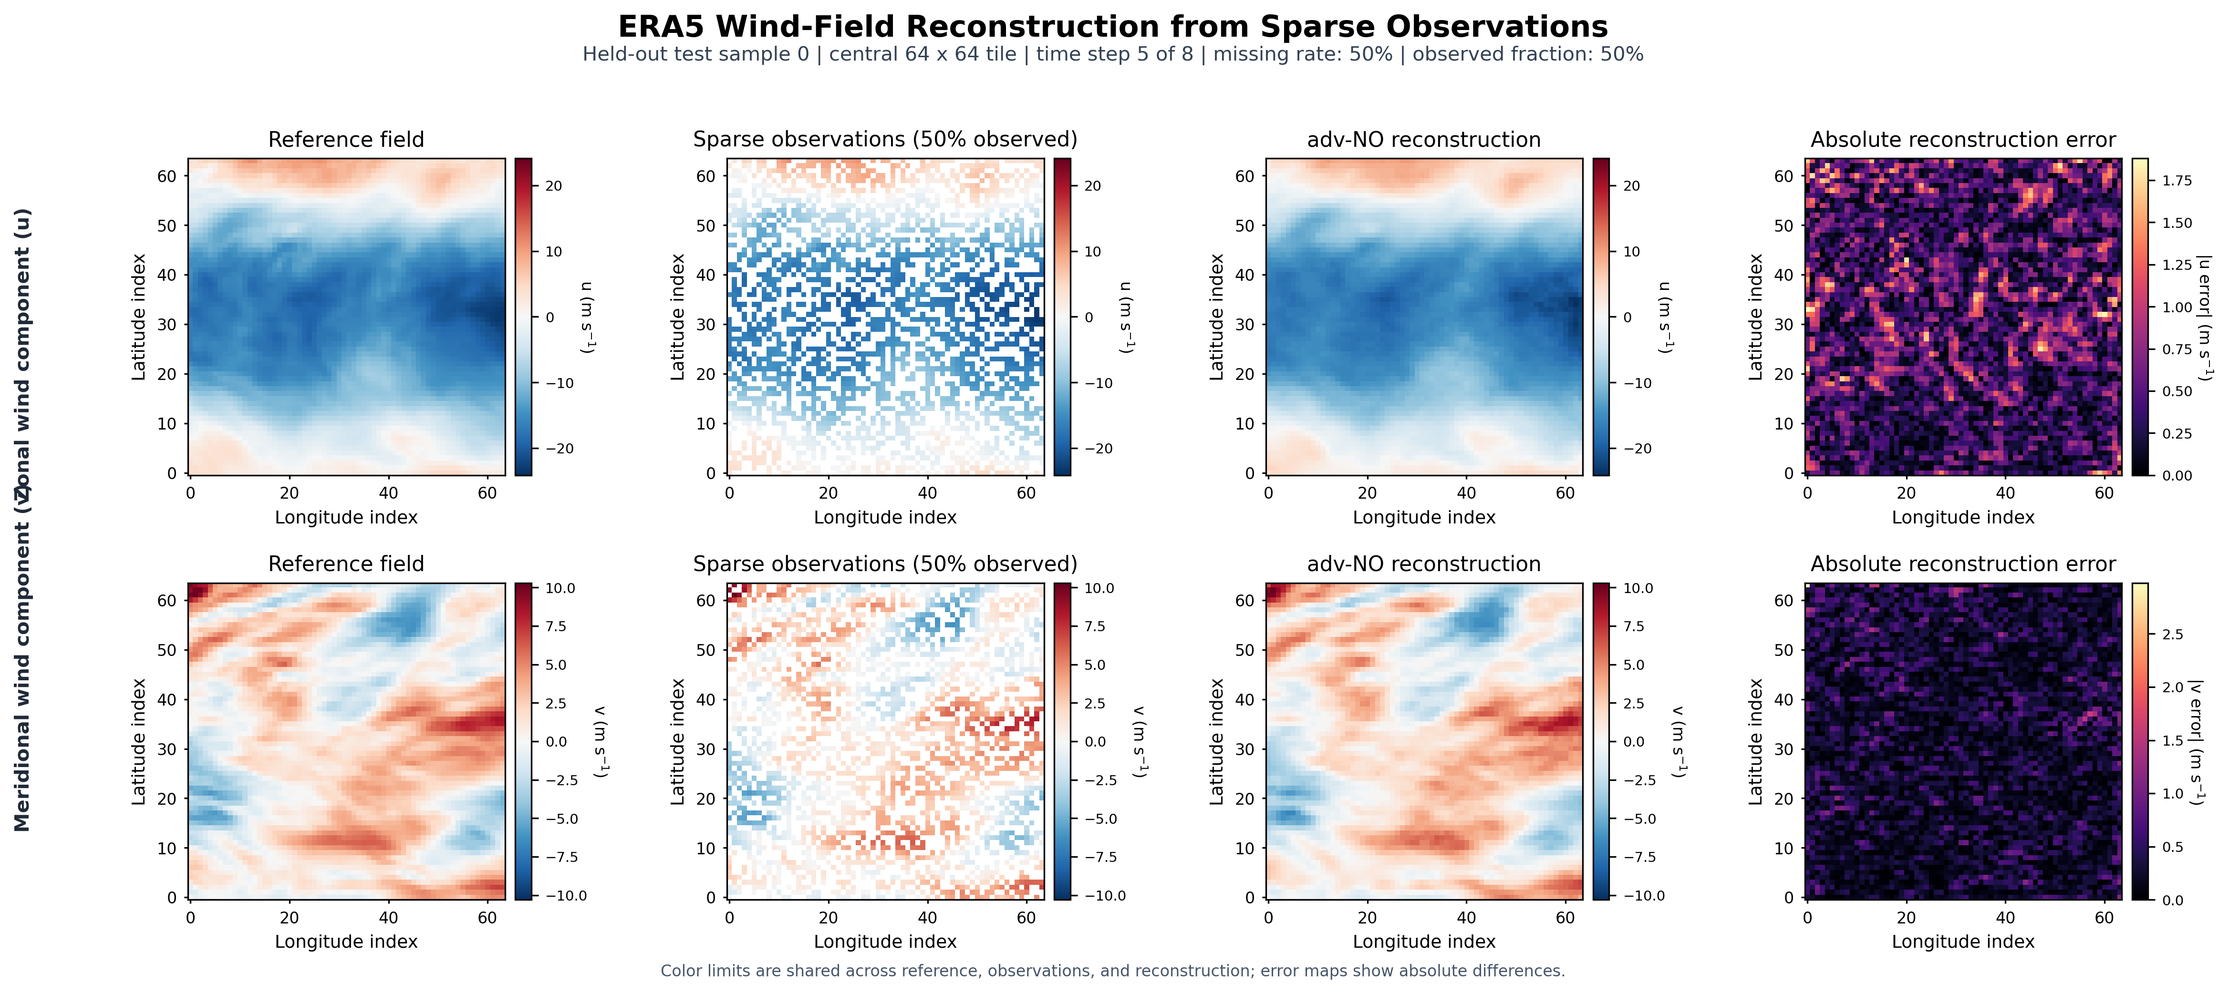
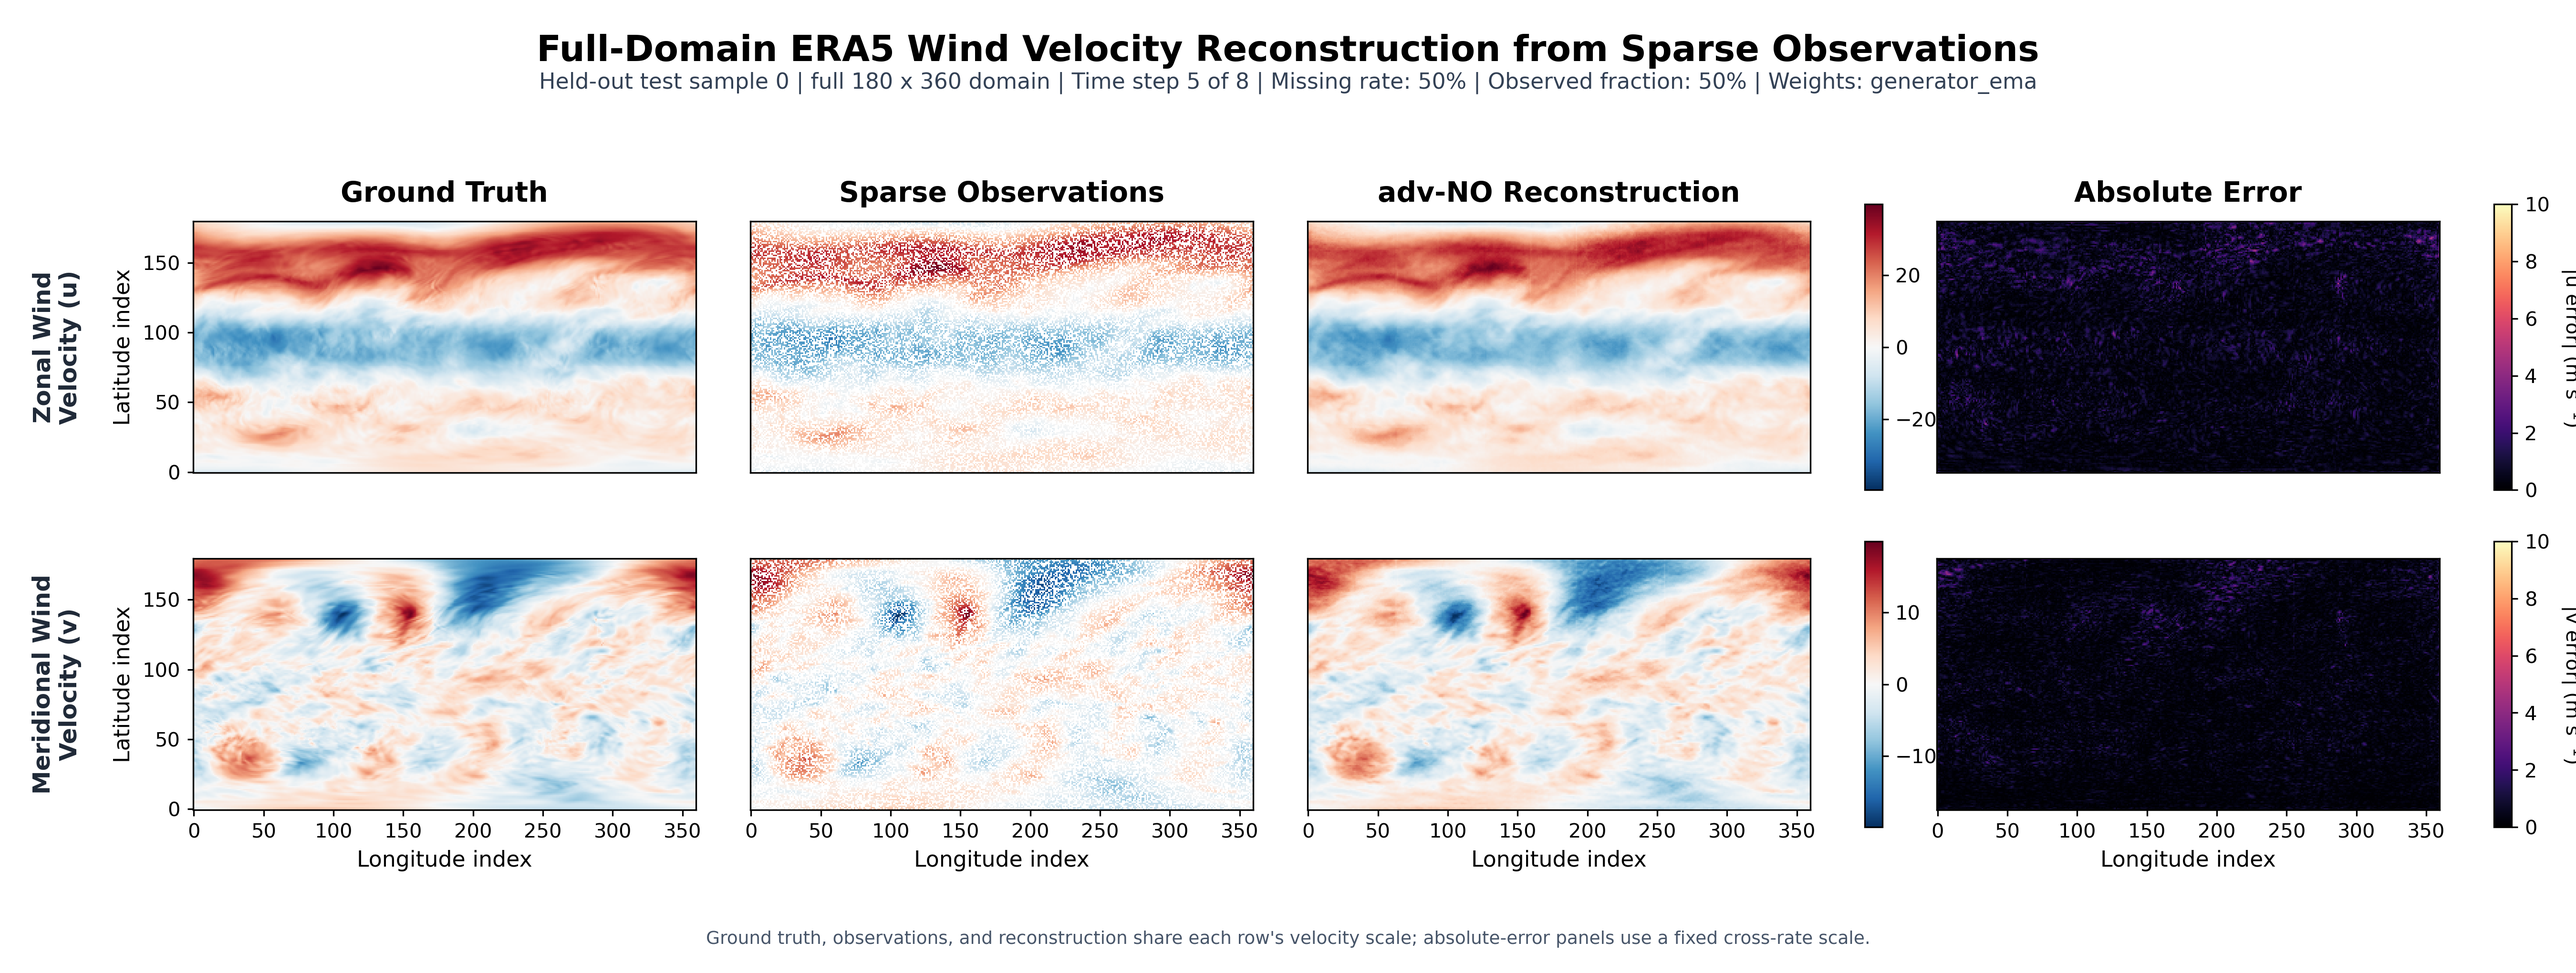
feat: publish full-domain sparse reconstruction figures

diff --git a/tests/test_sparse_visualization_layout.py b/tests/test_sparse_visualization_layout.py
@@ -77,12 +77,78 @@ def test_full_domain_prediction_uses_tiled_predict_without_cropping(monkeypatch)
     assert observed.shape == (100, 110, 30)
 
 
+def test_predict_sample_reports_selected_generator_source(monkeypatch, tmp_path):
+    module = load_plot_module()
+
+    class FakeModel:
+        def to(self, device):
+            return self
+
+        def load_state_dict(self, state):
+            self.state = state
+
+        def eval(self):
+            return self
+
+    checkpoint = {
+        "par": {
+            "nx": 64,
+            "nz": 16,
+            "inp_shift": torch.zeros((1, 4, 1, 1, 1)),
+        }
+    }
+    monkeypatch.setattr(module.torch, "load", lambda *args, **kwargs: checkpoint)
+    monkeypatch.setattr(module, "Unet3D", lambda **kwargs: FakeModel())
+    monkeypatch.setattr(
+        module,
+        "select_generator_state",
+        lambda checkpoint, prefer_ema: ({"weight": torch.tensor(1.0)}, "generator_ema"),
+    )
+    monkeypatch.setattr(
+        module,
+        "read_full_sample",
+        lambda *args: (
+            np.zeros((2, 100, 110, 30), dtype=np.float32),
+            np.ones((1, 100, 110, 30), dtype=np.float32),
+        ),
+    )
+    monkeypatch.setattr(
+        module,
+        "predict_full_domain",
+        lambda *args, **kwargs: (
+            np.zeros((2, 100, 110, 30), dtype=np.float32),
+            np.ones((100, 110, 30), dtype=bool),
+        ),
+    )
+
+    *_, source = module.predict_sample(
+        data_path=tmp_path / "input.h5",
+        checkpoint_path=tmp_path / "checkpoint.pt",
+        config_path=None,
+        sample=0,
+        slice_index=14,
+        mask_ratio=0.5,
+        seed=25,
+        device_name="cpu",
+        patch=64,
+        depth=16,
+    )
+
+    assert source == "generator_ema"
+
+
 def test_fixed_error_color_limit_is_shared_across_components():
     module = load_plot_module()
     limits = module.resolve_error_limits(np.asarray([0.08, 0.06]), 0.12)
     np.testing.assert_array_equal(limits, np.asarray([0.12, 0.12]))
     with pytest.raises(ValueError, match="error-vmax"):
         module.resolve_error_limits(np.asarray([0.08, 0.06]), 0.0)
+
+
+def test_error_scale_caption_matches_fixed_or_dynamic_policy():
+    module = load_plot_module()
+    assert "fixed cross-rate scale" in module.error_scale_caption(0.12)
+    assert "per-figure scale" in module.error_scale_caption(None)
 
 
 def test_publication_column_titles_and_axis_visibility():
@@ -96,6 +162,16 @@ def test_publication_column_titles_and_axis_visibility():
     for row in range(2):
         for col in range(4):
             assert module.axis_visibility(row, col) == (row == 1, col == 0)
+
+
+def test_long_velocity_row_labels_wrap_without_abbreviation():
+    module = load_plot_module()
+    assert module.format_row_label("Zonal Wind Velocity (u)") == (
+        "Zonal Wind\nVelocity (u)"
+    )
+    assert module.format_row_label("Eastward Velocity (u)") == (
+        "Eastward Velocity (u)"
+    )
 
 
 def test_hide_redundant_axes_keeps_only_left_and_bottom_labels():
@@ -136,3 +212,17 @@ def test_parser_exposes_publication_layout_controls():
     assert args.slice_label == "Sigma layer"
     assert args.error_vmax == 0.12
     assert (args.patch, args.depth, args.stride, args.tile_batch) == (64, 16, 32, 8)
+
+
+def test_parser_uses_publication_era5_row_labels():
+    module = load_plot_module()
+    args = module.build_arg_parser().parse_args(
+        [
+            "--data", "input.h5",
+            "--checkpoint", "checkpoint.pt",
+            "--config", "config.json",
+            "--output", "output.png",
+        ]
+    )
+    assert args.u_label == "Zonal Wind Velocity (u)"
+    assert args.v_label == "Meridional Wind Velocity (v)"

diff --git a/3_flow_reconstruction/no/adv_training/plot_sparse_visualization.py b/3_flow_reconstruction/no/adv_training/plot_sparse_visualization.py
@@ -53,6 +53,13 @@ def axis_labels(x_label: str, y_label: str) -> tuple[str, str]:
     return x_label, y_label
 
 
+def format_row_label(label: str) -> str:
+    """Wrap long wind-component labels without abbreviating their meaning."""
+    if len(label) > 22 and " Wind Velocity " in label:
+        return label.replace(" Wind Velocity ", " Wind\nVelocity ", 1)
+    return label
+
+
 def axis_visibility(row: int, col: int, row_count: int = 2) -> tuple[bool, bool]:
     """Return whether an axis should display x and y coordinates."""
     return row == row_count - 1, col == 0
@@ -93,6 +100,13 @@ def resolve_error_limits(error_limits: np.ndarray, error_vmax: float | None) -> 
             raise ValueError("error-vmax must be positive")
         value = float(error_vmax)
     return np.full(np.asarray(error_limits).shape, value, dtype=np.float64)
+
+
+def error_scale_caption(error_vmax: float | None) -> str:
+    """Describe whether absolute-error limits support cross-rate comparison."""
+    if error_vmax is None:
+        return "absolute-error panels use a per-figure scale."
+    return "absolute-error panels use a fixed cross-rate scale."
 
 
 def ground_truth_field_limits(truth: np.ndarray) -> np.ndarray:
@@ -194,7 +208,9 @@ def predict_sample(
         dim_mults=(1, 2, 4, 8),
         channels=4,
     ).to(device)
-    generator_state, _ = select_generator_state(checkpoint, prefer_ema=not raw_generator)
+    generator_state, generator_source = select_generator_state(
+        checkpoint, prefer_ema=not raw_generator
+    )
     model.load_state_dict(generator_state)
     model.eval()
 
@@ -356,7 +372,7 @@ def render(args):
         figure.text(
             0.022,
             (bounds.y0 + bounds.y1) / 2,
-            row_label,
+            format_row_label(row_label),
             rotation=90,
             ha="center",
             va="center",
@@ -388,7 +404,7 @@ def render(args):
         0.5,
         0.035,
         "Ground truth, observations, and reconstruction share each row's velocity scale; "
-        "absolute-error panels use a fixed cross-rate scale.",
+        f"{error_scale_caption(args.error_vmax)}",
         ha="center",
         va="center",
         fontsize=9,
@@ -431,8 +447,8 @@ def build_arg_parser():
         "--title",
         default="ERA5 Horizontal Wind-Field Reconstruction from Sparse Observations",
     )
-    parser.add_argument("--u-label", default="Zonal wind component (u)")
-    parser.add_argument("--v-label", default="Meridional wind component (v)")
+    parser.add_argument("--u-label", default="Zonal Wind Velocity (u)")
+    parser.add_argument("--v-label", default="Meridional Wind Velocity (v)")
     return parser
 
 

diff --git a/docs/superpowers/plans/2026-09-11-full-domain-sparse-visualization.md b/docs/superpowers/plans/2026-09-11-full-domain-sparse-visualization.md
@@ -108,17 +108,17 @@ Expected: all tests pass.
 - Modify: `docs/figures/pre_90pct_visualization.png`
 - Modify: `docs/figures/pre_99pct_visualization.png`
 
-- [ ] **Step 1: Run GPU rendering for all PRE rates**
+- [x] **Step 1: Run GPU rendering for all PRE rates**
 
 Use the final `pre_ragan_pretrained_0to100_ema_bs64` EMA checkpoint, sample 0,
 sigma layer 15 of 30, and rates `0.01 0.10 0.30 0.50 0.70 0.90 0.99`.
 
-- [ ] **Step 2: Verify output dimensions and visible domain**
+- [x] **Step 2: Verify output dimensions and visible domain**
 
 Use Pillow to assert all seven files have identical dimensions. Check the
 subtitle states `full 100 x 110 domain` and `Sigma layer 15 of 30`.
 
-- [ ] **Step 3: Inspect 1%, 50%, and 99% images**
+- [x] **Step 3: Inspect 1%, 50%, and 99% images**
 
 Check title/axis/colorbar clipping, PRE land masking, sparse observations,
 panel order, and error visibility.
@@ -133,7 +133,7 @@ panel order, and error visibility.
 - Modify: `docs/figures/era5_90pct_visualization.png`
 - Modify: `docs/figures/era5_99pct_visualization.png`
 
-- [ ] **Step 1: Use one checkpoint for the degradation series**
+- [x] **Step 1: Use one checkpoint for the degradation series**
 
 Use `era_ragan_pretrained_0to100_ema_bs32` for every 10%--99% figure so the
 series shows one model's degradation curve and remains consistent with the
@@ -141,12 +141,12 @@ project report's "ERA5 extreme-sparsity model" visualization section. Do not
 mix the standard BCE checkpoint and extreme-sparsity checkpoint under one set
 of filenames.
 
-- [ ] **Step 2: Run GPU rendering**
+- [x] **Step 2: Run GPU rendering**
 
 Render sample 0, time step 5 of 8, over the full `180 x 360` domain. Preserve
 the global `2:1` field aspect ratio.
 
-- [ ] **Step 3: Verify dimensions and visual quality**
+- [x] **Step 3: Verify dimensions and visual quality**
 
 Assert all ERA5 files share one pixel size and inspect 10%, 50%, and 99% for
 layout, readable font size, color scales, and complete-domain coverage.
@@ -159,13 +159,13 @@ layout, readable font size, color scales, and complete-domain coverage.
 - Modify: `docs/results/pre_ragan_pretrained_0to100_ema_bs64/README.md`
 - Modify: `3_flow_reconstruction/no/adv_training/README_sparse_tasks.md`
 
-- [ ] **Step 1: Update documentation**
+- [x] **Step 1: Update documentation**
 
 Replace references to center `64 x 64` figures with PRE `100 x 110` and ERA5
 `180 x 360` full-domain figures. Document the four column titles, sparse axis
 labels, selected layer/time step, colorbar policy, and checkpoint provenance.
 
-- [ ] **Step 2: Run automated verification**
+- [x] **Step 2: Run automated verification**
 
 Run:
 
@@ -176,7 +176,7 @@ python -m pytest -q tests
 
 Expected: no whitespace errors and all tests pass.
 
-- [ ] **Step 3: Verify generated assets**
+- [x] **Step 3: Verify generated assets**
 
 Use Pillow/file inspection to verify all expected PNG files are nonempty and
 have consistent per-dataset dimensions. Confirm no HDF5, checkpoint, or log is

diff --git a/README.md b/README.md
@@ -53,6 +53,10 @@ PRE:  [B, 4, 64, 64, 16] -> [B, 2, 64, 64, 16]
 ERA5: [B, 4, 64, 64,  8] -> [B, 2, 64, 64,  8]
 ```
 
+以上是训练和单次模型前向传播的 patch 尺寸，不是数据集或最终可视化的
+空间范围。正式推理使用重叠 tile 覆盖完整的下采样域，PRE 输出
+`100 × 110 × 30`，ERA5 输出 `180 × 360 × 8`。
+
 四个输入通道为均值填充后的稀疏 `u/v` 和共享观测掩码；两个输出通道为
 重建后的 `u/v`。`u`、`v` 分别使用训练集统计量做 z-score 归一化。
 
@@ -211,23 +215,26 @@ python -u 3_flow_reconstruction/no/adv_training/plot_sparse_visualization.py \
   --checkpoint outputs/era_ragan_pretrained_0to100_ema_bs32/best_model.pt \
   --config outputs/era_ragan_pretrained_0to100_ema_bs32/config.json \
   --output docs/figures/era5_50pct_visualization.png \
-  --mask-ratio 0.5 --sample 0 --time-index 4 --device cuda:0 \
-  --title "ERA5 Wind-Field Reconstruction from Sparse Observations" \
-  --u-label "Zonal wind component (u)" \
-  --v-label "Meridional wind component (v)"
+  --mask-ratio 0.5 --sample 0 --slice-index 4 --device cuda:0 \
+  --patch 64 --depth 8 --stride 32 --tile-batch 8 --error-vmax 10 \
+  --title "Full-Domain ERA5 Wind Velocity Reconstruction from Sparse Observations" \
+  --u-label "Zonal Wind Velocity (u)" --v-label "Meridional Wind Velocity (v)"
 ```
 
 评价 PRE 时替换数据、checkpoint 和 config，并在评价脚本中使用
-`--depth 16`；绘图脚本会从 checkpoint 读取深度。PRE 图例标签应改为海洋
-eastward/northward 流速。最终 PRE 的 7 个 JSON 和 PNG 已整理到
+`--depth 16`。PRE 图例标签应改为海洋 eastward/northward 流速。最终 PRE
+的 7 个 JSON 和 PNG 已整理到
 [`docs/results/pre_ragan_pretrained_0to100_ema_bs64/`](docs/results/pre_ragan_pretrained_0to100_ema_bs64)
 和 [`docs/figures/`](docs/figures)。两个脚本默认读取 `generator_ema`；只有显式使用
 `--raw-generator` 才会读取原始生成器。
 
-PRE 正式图片使用固定出版参数：`15.6 × 7.2 in`、`300 dpi`（输出
-`4680 × 2160 px`），横纵轴分别标为 `xi-grid index` 和 `eta-grid index`，
-第五维标为 `Sigma layer`；所有缺失率图片的绝对误差 colorbar 统一为
-`0--0.12 m s^-1`，便于跨缺失率比较。
+正式图片展示下采样后的完整域，而不是中心 `64 × 64` patch：PRE 为
+`100 × 110`、ERA5 为 `180 × 360`。每张图依次显示 `Ground Truth`、
+`Sparse Observations`、`adv-NO Reconstruction` 和 `Absolute Error`。PRE
+图片为 `5400 × 2640 px`，坐标使用 `xi-grid index`/`eta-grid index`，第五维
+标为 `Sigma layer`，误差色标固定为 `0--0.12 m s^-1`；ERA5 图片为
+`5400 × 2040 px`，保持全球场 `2:1` 比例，误差色标固定为
+`0--10 m s^-1`。所有图片均为 `300 dpi`。
 
 ## 核心结果
 

diff --git a/docs/results/pre_ragan_pretrained_0to100_ema_bs64/README.md b/docs/results/pre_ragan_pretrained_0to100_ema_bs64/README.md
@@ -11,10 +11,12 @@
 
 每个 JSON 同时保存 `model`、最近邻 `nearest` 和高斯插值 `gaussian` 三种方法，包含 MAE、RMSE、Bias、Relative L2、NRMSE、PSNR、SSIM、Pearson `r` 和 EPE。报告中的主结果使用 `methods.model.missing.macro`。
 
-配套图片统一使用 `15.6 × 7.2 in`、`300 dpi`（`4680 × 2160 px`）画布。PRE
-第五维是垂向 sigma 层，图中标为 `Sigma layer`；空间轴标为 `xi-grid index`
-和 `eta-grid index`。参考场、稀疏观测和重建共用场值色标，u/v 的绝对误差
-图共用固定 `0--0.12 m s^-1` 色标。
+配套图片展示完整 `100 × 110` 下采样域，而不是训练时的中心 `64 × 64`
+patch；统一使用 `18 × 8.8 in`、`300 dpi`（`5400 × 2640 px`）画布。PRE
+第五维是垂向 sigma 层，图中展示第 15/30 层并标为 `Sigma layer`；空间轴标为
+`xi-grid index` 和 `eta-grid index`。四列依次为 `Ground Truth`、
+`Sparse Observations`、`adv-NO Reconstruction` 和 `Absolute Error`。前三列
+在每个分量内共享场值色标，u/v 绝对误差固定使用 `0--0.12 m s^-1` 色标。
 
 | 缺失率 | MAE | RMSE | PSNR (dB) | SSIM | Pearson r |
 | ---: | ---: | ---: | ---: | ---: | ---: |

diff --git a/3_flow_reconstruction/no/adv_training/README_sparse_tasks.md b/3_flow_reconstruction/no/adv_training/README_sparse_tasks.md
@@ -148,6 +148,20 @@ content loss.  This runner therefore uses the same Unet3D generator with a
 compact 3D patch discriminator and normalized pixel + GAN objectives, both of
 which have explicit valid-region handling.
 
+## Full-domain visualization
+
+The `64 x 64` dimensions above are training and model-forward patch sizes, not
+the published field extent. `plot_sparse_visualization.py` applies the sparse
+mask to a complete held-out sample and uses overlapping tiled inference to
+reconstruct the full processed domain. The paper-ready figures show PRE at
+`100 x 110` on sigma layer 15 of 30 and ERA5 at `180 x 360` on time step 5 of
+8. PRE land remains blank. The four columns are `Ground Truth`, `Sparse
+Observations`, `adv-NO Reconstruction`, and `Absolute Error`; field scales are
+shared by the first three columns within each row. PRE and ERA5 use fixed
+cross-rate absolute-error limits of `0.12 m s^-1` and `10 m s^-1`,
+respectively. ERA5's visualization series uses only the extreme-sparsity
+`era_ragan_pretrained_0to100_ema_bs32` EMA checkpoint.
+
 ## ERA5 result summary
 
 The completed formal runs are:
